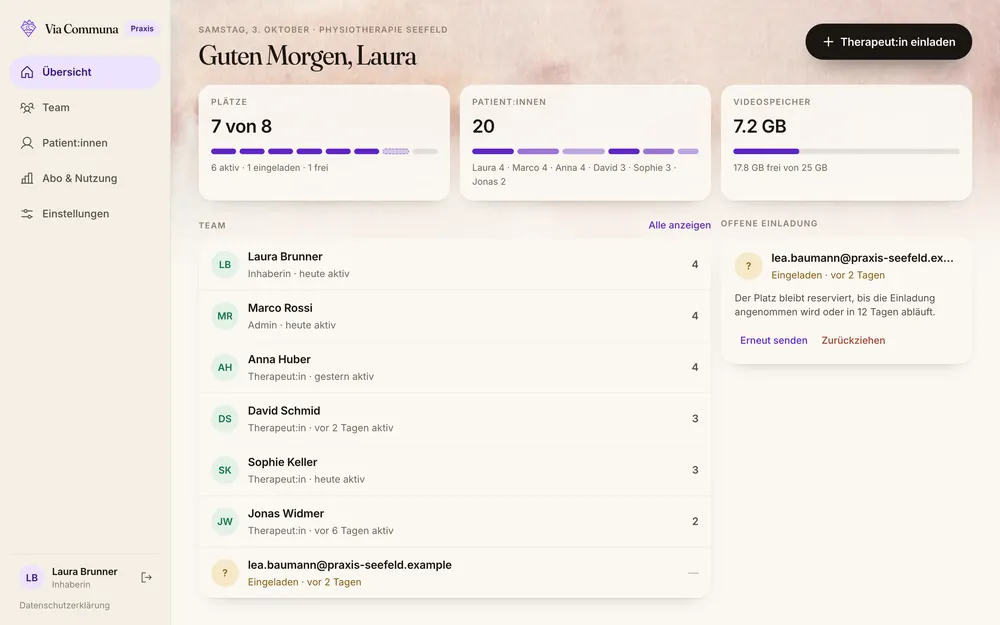
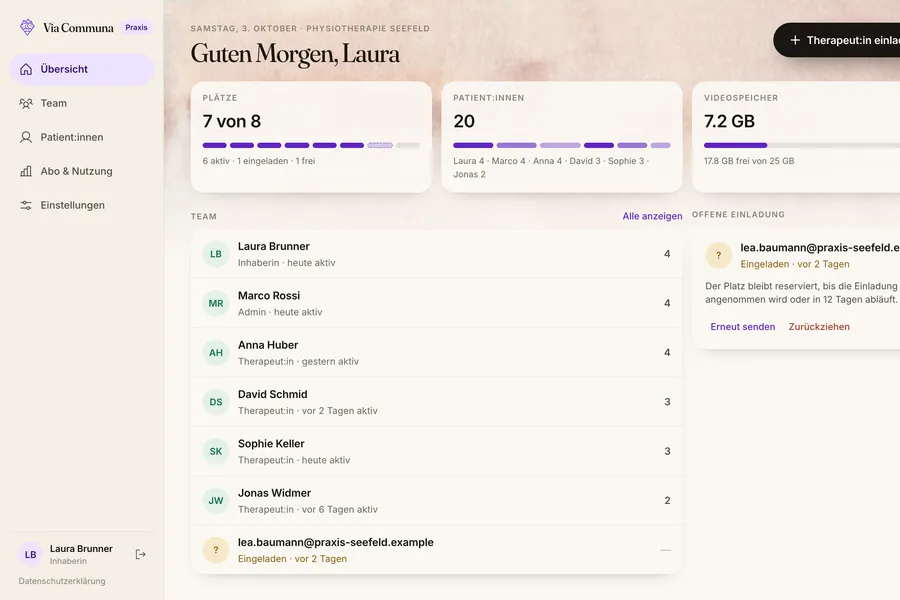
Code Loft polish: Senior Consultant, email & Winterthur, 3:2 product shots, Simi and a Via Physio corner in the loft
- ipt: Senior Consultant (software engineer); the AI lead role on the BIT
  project and the two design prototypes, as the owner described them
- profile: contact email, Winterthur; Via Communa co-founder & CTO
- copy tightened across the new entries and the About page
- product shots composed at the journal's 3:2 polaroid ratio (no more
  centre-cropped phone screens), full screens on brand-coloured grounds
- loft: Simi the turtle on the tinkering bench (Via Communa) and a new
  'via-physio' hotspot — an exercise mat filmed by a phone on a tripod —
  so every Code Loft page has its place in the glen; miniatures updated

Claude-Session: https://claude.ai/code/session_01HMXAdMJRfusU31xUmXJK78

diff --git a/src/content/content.js b/src/content/content.js
@@ -20,9 +20,8 @@ export const profile = {
   tagline: 'Software engineer · Co-founder of Via Communa · Schreiner EFZ',
   intro:
     'Welcome to my little woodland! I trained as a Schreiner, became a software engineer, and in my free time I build Via Communa, an app for life after a stroke. Furniture, bikes and cosy rooms are what I make for joy. Wander around, hop on a snail, and poke at anything that looks interesting.',
-  location: 'Switzerland',
-  // DRAFT: put your real address here (or remove the line to hide the button)
-  email: 'hello@example.com',
+  location: 'Winterthur, Switzerland',
+  email: 'jonathangruss@gmail.com',
   links: [
     { label: 'GitHub', href: 'https://github.com/JonnysCode', icon: 'github' },
     { label: 'LinkedIn', href: 'https://www.linkedin.com/in/jonathangruss', icon: 'linkedin' },
@@ -55,7 +54,7 @@ export const areas = {
   code: {
     title: 'Code Loft',
     kicker: 'Software engineering',
-    text: 'A treehouse halfway up the Great Oak, where the screens glow late into the night. Here is the software I build: by day as a consultant at ipt, in my free time for Via Communa and Via Physio — and the code behind this very woodland.',
+    text: 'A treehouse halfway up the Great Oak, where the screens glow late into the night. By day I build software as a consultant at ipt; in my free time, up here, Via Communa and Via Physio — and the code behind this very woodland.',
   },
   home: {
     title: 'Jonny’s Cottage',
@@ -259,8 +258,8 @@ export const entries = {
     summary: 'The startup I co-founded in my free time: a stroke-recovery app for patients and relatives, with a web dashboard for clinics.',
     body: [
       'Via Communa is a digital companion for people after a stroke and for the relatives who support them. The app offers guided exercises for the body, the mind and everyday life, explains what happens after a stroke, and comes with Simi, a friendly turtle who stands for patience, consistency and steady progress.',
-      'I co-founded Via Communa with a team from healthcare, technology and psychology, and I am its only software engineer: I design and build the whole platform myself, from the mobile apps for iOS and Android to the backend and the web dashboard where therapists create exercise content and clinics follow their patients’ progress.',
-      'It is meant to complement therapy, not replace it: something to practise with between sessions and once you are back home. It is developed and hosted in Switzerland, in German, French and English.',
+      'I co-founded Via Communa with a team from healthcare, technology and psychology. As its CTO and only software engineer I design and build the whole platform myself: the mobile app for iOS and Android, the backend, and the web dashboard where therapists create exercise content and clinics follow their patients’ progress.',
+      'It is meant to complement therapy, not replace it: something to practise with between sessions and once you are back home. Made and hosted in Switzerland, it speaks German, French and English.',
     ],
     facts: [
       ['Role', 'Co-founder & CTO, sole software engineer'],
@@ -268,7 +267,7 @@ export const entries = {
       ['Stack', 'React Native & Expo, Next.js, TypeScript, Supabase (Postgres)'],
     ],
     tags: ['Startup', 'Digital health', 'React Native', 'Next.js', 'Supabase'],
-    images: [{ src: 'images/via-communa-app.webp', alt: 'The Via Communa app’s home screen' }],
+    images: [{ src: 'images/via-communa-app.webp', alt: 'The Via Communa app, with Simi the turtle' }],
     links: [{ label: 'viacommuna.com', href: 'https://www.viacommuna.com' }],
     featured: true,
   },
@@ -280,16 +279,16 @@ export const entries = {
     year: '2026',
     summary: 'A home-exercise app for physiotherapy practices, with a practice dashboard and its own landing page.',
     body: [
-      'Via Physio comes from Via Communa too, and is made for physiotherapy practices. The therapist films an exercise on their phone while the patient does it; at home the patient practises with exactly that video, with a timer and set counter, and reports pain and difficulty after each exercise. The feedback lands in the therapist’s inbox.',
-      'Around the app there is a practice dashboard (“Praxis”), where practice owners invite their therapists and keep track of their team, patients, seats and video storage, and a landing page that explains it all to practices and their patients. I build all three.',
+      'Via Physio is Via Communa’s app for physiotherapy practices. The therapist films an exercise on their phone while the patient does it. At home, the patient practises with exactly that video — timer and set counter included — and after each exercise reports pain and difficulty, straight to the therapist’s inbox.',
+      'Around the app sit a practice dashboard (“Praxis”), where owners invite their therapists and keep an eye on team, patients, seats and video storage, and a landing page that explains it all to practices and their patients. I build all three.',
     ],
     facts: [
       ['Parts', 'Mobile app · practice dashboard · landing page'],
       ['Stack', 'Expo & React Native, React, Next.js, TypeScript, Supabase'],
     ],
-    tags: ['Digital health', 'Physiotherapy', 'Expo', 'Product design'],
+    tags: ['Digital health', 'Physiotherapy', 'Expo', 'Next.js'],
     images: [
-      { src: 'images/via-physio-app.webp', alt: 'Via Physio: the patient’s exercises for today' },
+      { src: 'images/via-physio-app.webp', alt: 'Via Physio: today’s session and the patient’s path, week by week' },
       { src: 'images/via-physio-dashboard.webp', alt: 'The practice dashboard, with sample data' },
     ],
     links: [{ label: 'viaphysio.app', href: 'https://www.viaphysio.app/en/' }],
@@ -299,20 +298,22 @@ export const entries = {
     area: 'code',
     kind: 'project',
     title: 'Consulting at ipt',
-    subtitle: 'Software engineer at a Swiss software engineering consultancy',
+    subtitle: 'Senior Consultant at a Swiss software engineering consultancy',
     year: 'since 2023',
-    summary: 'My day job: building software for Swiss clients as a consultant at ipt.',
+    summary: 'My day job: Senior Consultant and software engineer at ipt, currently for the Swiss Armed Forces.',
     body: [
-      'By day I am a software engineer and consultant at ipt, a Swiss software engineering consultancy.',
-      'Right now I work for the Swiss Armed Forces through the Federal Office of Information Technology (BIT), on rebuilding their personnel management software. Besides building features end to end, I lead our team’s adoption of AI-assisted, agentic development.',
+      'By day I am a Senior Consultant at ipt, a Swiss software engineering consultancy, where I work as a software engineer.',
+      'Right now I work for the Swiss Armed Forces through the Federal Office of Information Technology (BIT), on rebuilding their personnel management software. Besides building features end to end, I lead the AI side of the project: AI-assisted development in our team, the AI tooling around it, and AI inside the new product itself.',
+      'Right now I am prototyping the new product twice over: once designed in Figma with the help of the Figma MCP server, once built entirely in code.',
       'Earlier at ipt I worked on Kafka-based event-streaming and integration platforms for Swiss banking and financial clients.',
     ],
     facts: [
+      ['Role', 'Senior Consultant (software engineer)'],
       ['Company', 'ipt, Zurich'],
       ['Now', 'Personnel management software for the Swiss Armed Forces, via BIT'],
       ['Stack', 'Java, Spring Boot, Angular, Kafka, Kubernetes / OpenShift'],
     ],
-    tags: ['Consulting', 'Java', 'Spring Boot', 'Angular', 'Kafka', 'AI-assisted development'],
+    tags: ['Consulting', 'Java', 'Spring Boot', 'Angular', 'Kafka', 'AI engineering'],
     featured: true,
   },
   'this-portfolio': {
@@ -344,14 +345,14 @@ export const entries = {
     subtitle: 'A software engineer with sawdust in the pockets',
     summary: 'Who lives in this cottage.',
     body: [
-      'Hi, I am Jonny. I started out as a Schreiner: an apprenticeship and several years as a cabinetmaker and assembly carpenter in Swiss joineries. Then I went back to school, earned a professional baccalaureate, a bachelor’s in computer science at ZHAW (with an exchange at Sungkyunkwan University in Seoul) and a master’s at the University of St. Gallen.',
-      'Today I am a software engineer and consultant at ipt, and in my free time I build Via Communa, an app for people after a stroke, as a co-founder and its only software engineer. I never stopped making things with my hands.',
+      'Hi, I am Jonny. I started out as a Schreiner: an apprenticeship, then several years as a cabinetmaker and assembly carpenter in Swiss joineries. Then I went back to school — a professional baccalaureate, a bachelor’s in computer science at ZHAW (with an exchange semester in Seoul) and a master’s at the University of St. Gallen.',
+      'Today I am a Senior Consultant at ipt, where I work as a software engineer. In my free time I build Via Communa, an app for people after a stroke, as its co-founder and CTO. And I never stopped making things with my hands.',
       'DRAFT — A few sentences about what drives you, and what you are looking for.',
     ],
     facts: [
-      ['Based in', 'Switzerland'],
-      ['Day job', 'Software engineer & consultant at ipt'],
-      ['Free time', 'Co-founder of Via Communa'],
+      ['Based in', 'Winterthur, Switzerland'],
+      ['Day job', 'Senior Consultant (software engineer) at ipt'],
+      ['Free time', 'Co-founder & CTO of Via Communa'],
       ['Studied', 'Computer science — BSc ZHAW, MSc HSG'],
       ['Hands-on', 'Woodworking · Bikes · Interiors'],
     ],

diff --git a/src/scene/loft/props.js b/src/scene/loft/props.js
@@ -6,7 +6,9 @@
 //     pinwheel "fan" spinning on top, a cable bundle snaking to the house
 //   • the tinkering bench ('project-side'): a small joiner's bench with a
 //     wooden vice, a breadboard, a soldering iron, a multimeter, spools of
-//     wire — and a little robot that waves
+//     wire, a little robot that waves — and Simi, Via Communa's turtle
+//   • Via Physio's corner ('via-physio'): a lilac exercise mat with a
+//     resistance band and a dumbbell, filmed by a phone on a mini tripod
 //   • a brass telescope on a wooden tripod pointing at the sky
 //   • a weather vane (a little fish) on the front finial, a twig antenna with
 //     a blinking red light at the back of the ridge
@@ -175,8 +177,8 @@ export function buildProps(ctx, B, mats, env, { deck, house, screens, updates })
       m.y += 0.04;
       SB.add(mats.paint(rng.pick(['#e2553f', '#ffd166', '#5fb8c9', '#7aa65a'])), tubeAlong([a, m, b], 0.004, 3, 6), { cast: false });
     }
-    SB.add(mats.paint('#e8c33a'), xf(new THREE.BoxGeometry(0.09, 0.03, 0.14), [0.32, Ht + 0.015, 0.06], [0, -0.3, 0]));
-    SB.add(mats.paint('#1d1d1f'), xf(new THREE.CylinderGeometry(0.025, 0.025, 0.006, 12), [0.32, Ht + 0.032, 0.05]), { cast: false });
+    SB.add(mats.paint('#e8c33a'), xf(new THREE.BoxGeometry(0.09, 0.03, 0.14), [0.27, Ht + 0.015, 0.06], [0, -0.3, 0]));
+    SB.add(mats.paint('#1d1d1f'), xf(new THREE.CylinderGeometry(0.025, 0.025, 0.006, 12), [0.27, Ht + 0.032, 0.05]), { cast: false });
     for (const [sx, c] of [[0.4, '#b87333'], [0.45, '#c0c0c0']]) SB.add(mats.metal(c), xf(new THREE.CylinderGeometry(0.035, 0.035, 0.05, 12), [sx, Ht + 0.025, -0.14]), { cast: false });
     SB.add(mats.metal('#555b60'), xf(new THREE.CylinderGeometry(0.03, 0.035, 0.03, 8), [-0.3, Ht + 0.015, -0.12]), { cast: false });
     SB.add(mats.paint('#2a2a2a'), alongX(new THREE.CylinderGeometry(0.009, 0.012, 0.2, 6).rotateZ(Math.PI / 2), [-0.3, Ht + 0.03, -0.12], [-0.18, Ht + 0.11, -0.12]), { cast: false });
@@ -191,6 +193,20 @@ export function buildProps(ctx, B, mats, env, { deck, house, screens, updates })
       const x = -0.35 + k * 0.17;
       SB.add(mats.metal('#9aa3ab'), xf(new THREE.BoxGeometry(0.012, 0.16, 0.004), [x, Ht + 0.2, -Dp / 2 - 0.0]), { cast: false });
       SB.add(mats.wood(rng.pick(['#c9a374', '#8c3b2e', '#3f5f6a'])), xf(new THREE.CylinderGeometry(0.014, 0.012, 0.09, 6), [x, Ht + 0.3, -Dp / 2 - 0.0]), { cast: false });
+    }
+    // Simi, Via Communa's turtle, keeping the robot company at the front corner
+    {
+      const [tx, tz, a] = [0.44, 0.13, 0.55]; // where it sits, and the way its head points (+z is the bench's front)
+      const at = (x, y, z) => [tx + x * Math.cos(a) + z * Math.sin(a), Ht + y, tz - x * Math.sin(a) + z * Math.cos(a)];
+      const skin = mats.paint('#8a5cc2');
+      const shell = new THREE.SphereGeometry(1, 12, 6, 0, TAU, 0, Math.PI / 2).scale(0.065, 0.048, 0.075);
+      SB.add(mats.paint('#5fa86a'), xf(shell, at(0, 0.022, 0), [0, a, 0]));
+      SB.add(mats.paint('#9fd39a'), xf(new THREE.CylinderGeometry(0.065, 0.061, 0.016, 12).scale(1, 1, 1.15), at(0, 0.016, 0), [0, a, 0]), { cast: false });
+      for (const [x, z] of [[0, 0.01], [-0.032, -0.022], [0.032, -0.022]]) SB.add(mats.paint('#4a8c56'), xf(new THREE.SphereGeometry(0.02, 8, 4).scale(1, 0.35, 1), at(x, 0.022 + 0.046 - Math.hypot(x, z) * 0.35, z), [0, a, 0]), { cast: false });
+      for (const [sx, sz] of [[-1, -1], [1, -1], [-1, 1], [1, 1]]) SB.add(skin, xf(new THREE.CylinderGeometry(0.013, 0.015, 0.024, 6), at(sx * 0.048, 0.012, sz * 0.048)), { cast: false });
+      SB.add(skin, xf(new THREE.CylinderGeometry(0.015, 0.019, 0.05, 8), at(0, 0.05, 0.075), [0.9, a, 0, 'YXZ']), { cast: false });
+      SB.add(skin, xf(new THREE.SphereGeometry(0.029, 10, 8).scale(1, 0.92, 1.05), at(0, 0.08, 0.096)));
+      for (const sx of [-1, 1]) SB.add(mats.paint('#1d1d1f'), xf(new THREE.SphereGeometry(0.0062, 6, 4), at(sx * 0.013, 0.088, 0.121)), { cast: false });
     }
     SB.build(g, 'loft-bench', { mergeShadow: true, remap: smallBitsRemap(mats) });
     // the robot: body (+ the resting arm), head (turns, glowing eyes, antenna LED), waving arm
@@ -245,6 +261,36 @@ export function buildProps(ctx, B, mats, env, { deck, house, screens, updates })
     } else arm.rotation.z = -0.25;
     out.bench = g;
     out.robot = robot;
+  }
+
+  // ── Via Physio's corner: an exercise mat, filmed by a phone on a tripod ────
+  {
+    const g = new THREE.Group();
+    g.name = 'loft-physio-corner';
+    const PB = new Batch();
+    const lilac = mats.paint('#a087fe');
+    PB.add(lilac, xf(new THREE.BoxGeometry(0.56, 0.012, 0.3), [0, 0.006, 0]));
+    PB.add(lilac, xf(new THREE.CylinderGeometry(0.032, 0.032, 0.3, 10).rotateX(Math.PI / 2), [-0.3, 0.032, 0]), { cast: false }); // the rolled-up end
+    PB.add(mats.paint('#3aa7a0'), xf(new THREE.TorusGeometry(0.06, 0.008, 5, 16).rotateX(Math.PI / 2), [0.1, 0.016, 0.06]), { cast: false }); // a resistance band
+    for (const sz of [-1, 1]) PB.add(mats.paint('#2a2a2a'), xf(new THREE.CylinderGeometry(0.022, 0.022, 0.018, 10).rotateX(Math.PI / 2), [-0.08, 0.034, -0.05 + sz * 0.045]), { cast: false });
+    PB.add(mats.metal('#9aa3ab'), xf(new THREE.CylinderGeometry(0.006, 0.006, 0.1, 6).rotateX(Math.PI / 2), [-0.08, 0.034, -0.05]), { cast: false }); // a little dumbbell
+    // the phone on a mini tripod, its camera on the mat
+    const top = new THREE.Vector3(0.48, 0.24, 0);
+    for (let k = 0; k < 3; k++) {
+      const a = (k / 3) * TAU + 0.5;
+      const foot = new THREE.Vector3(0.48 + Math.cos(a) * 0.08, 0, Math.sin(a) * 0.08);
+      PB.add(mats.metal('#2a2a2a'), tubeAlong([foot, top], 0.006, 4, 1), { cast: false });
+    }
+    PB.add(mats.paint('#1d1d1f'), xf(new THREE.BoxGeometry(0.012, 0.13, 0.065), [0.48, 0.31, 0], [0, 0, 0.12]));
+    PB.add(mats.paint('#e9dcff'), xf(new THREE.PlaneGeometry(0.055, 0.115).rotateY(Math.PI / 2), [0.487, 0.312, 0], [0, 0, 0.12]), { cast: false }); // its screen, facing whoever films
+    PB.build(g, 'loft-physio', { mergeShadow: true, remap: smallBitsRemap(mats) });
+    g.position.copy(local(2.05, 0, 2.15));
+    g.rotation.y = 0.35;
+    root.add(g);
+    g.updateMatrixWorld(true);
+    // the recording light on the phone's back
+    screens.addLed(new THREE.Vector3(0.472, 0.36, 0.02).applyMatrix4(g.matrixWorld), '#ff4d3a', { rate: 1.2, phase: 0.3, size: 0.012 });
+    out.physio = g;
   }
 
   // ── the telescope on its tripod ───────────────────────────────────────────

diff --git a/src/scene/loft.js b/src/scene/loft.js
@@ -33,7 +33,8 @@
 //
 // Hotspots (area 'code'): 'this-portfolio' (the workstation behind the big
 // window), 'project-backend' (the hollow-log server), 'project-side' (the
-// tinkering bench & robot), the rubber duck (kind 'secret') and the snail
+// tinkering bench, robot & Simi the turtle), 'via-physio' (the exercise mat
+// filmed by a phone on a tripod), the rubber duck (kind 'secret') and the snail
 // lift — a RIDE (loft/ride.js): the snail itself (up, or down from the Code
 // Loft), the bell at its boarding platform on the roots (up; its ✦ beckons
 // from the Schreinerei) and the lift gate on the deck (down to the Schreinerei,
@@ -152,6 +153,7 @@ export default async function build(ctx) {
   });
   if (props.server) ctx.interactions?.add?.(props.server, { entryId: 'project-backend', area, focus: { distance: 3, height: 0.4 }, approach: false });
   if (props.bench) ctx.interactions?.add?.(props.bench, { entryId: 'project-side', area, focus: { distance: 3, height: 0.4 }, approach: false });
+  if (props.physio) ctx.interactions?.add?.(props.physio, { entryId: 'via-physio', area, focus: { distance: 2.6, height: 0.2 }, approach: false });
   const duck = house.interior.duck;
   if (duck) {
     let quackT = -10;

diff --git a/src/content/miniatures.js b/src/content/miniatures.js
@@ -145,6 +145,14 @@ export const miniatures = {
       'A brass anglepoise desk lamp',
     ],
   },
+  'via-physio': {
+    glance: ['an exercise mat', 'a phone filming it from a tripod'],
+    lines: [
+      'A lilac exercise mat, one end rolled up',
+      'A resistance band and a little dumbbell on it',
+      'A phone on a mini tripod pointed at the mat, its red recording light blinking',
+    ],
+  },
   'project-backend': {
     glance: ['a hollow-log server with blinking LEDs', 'a pinwheel fan'],
     lines: [
@@ -154,11 +162,12 @@ export const miniatures = {
     ],
   },
   'project-side': {
-    glance: ['a tinkering bench', 'a little robot that waves'],
+    glance: ['Simi the turtle on a tinkering bench', 'a little robot that waves'],
     lines: [
       'A small joiner’s bench with a wooden vice',
       'A breadboard with chips, a soldering iron, a multimeter and spools of wire',
       'A little robot that waves',
+      'Simi, Via Communa’s purple turtle, sitting at the front corner',
     ],
   },
 };
